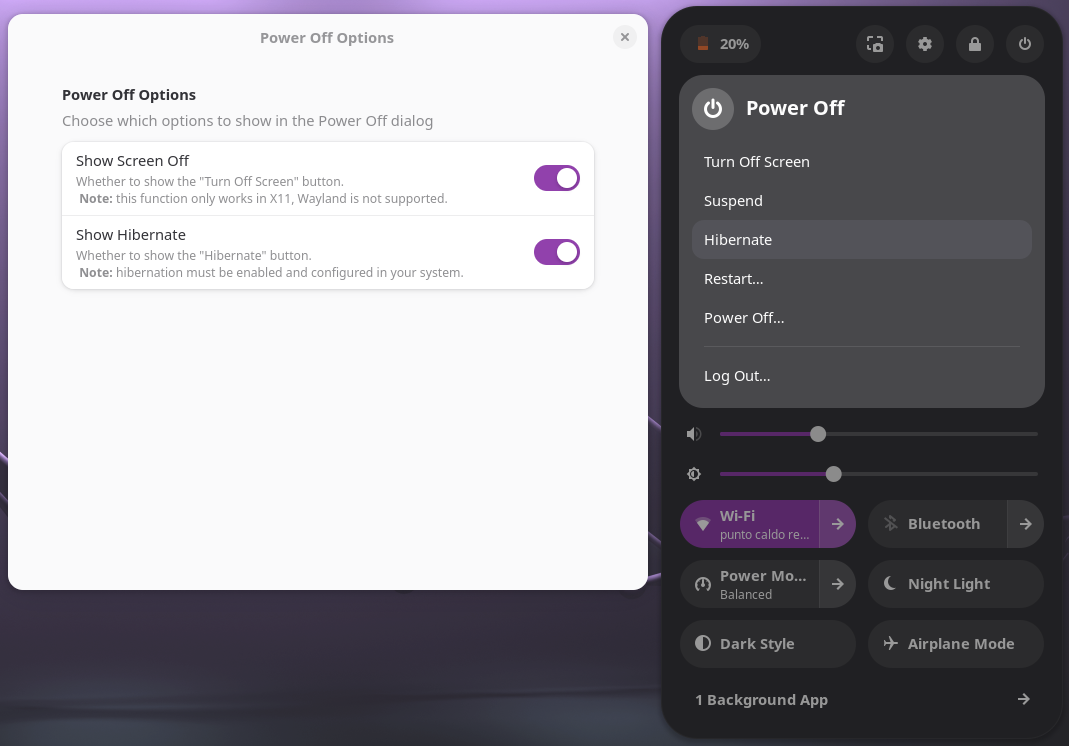
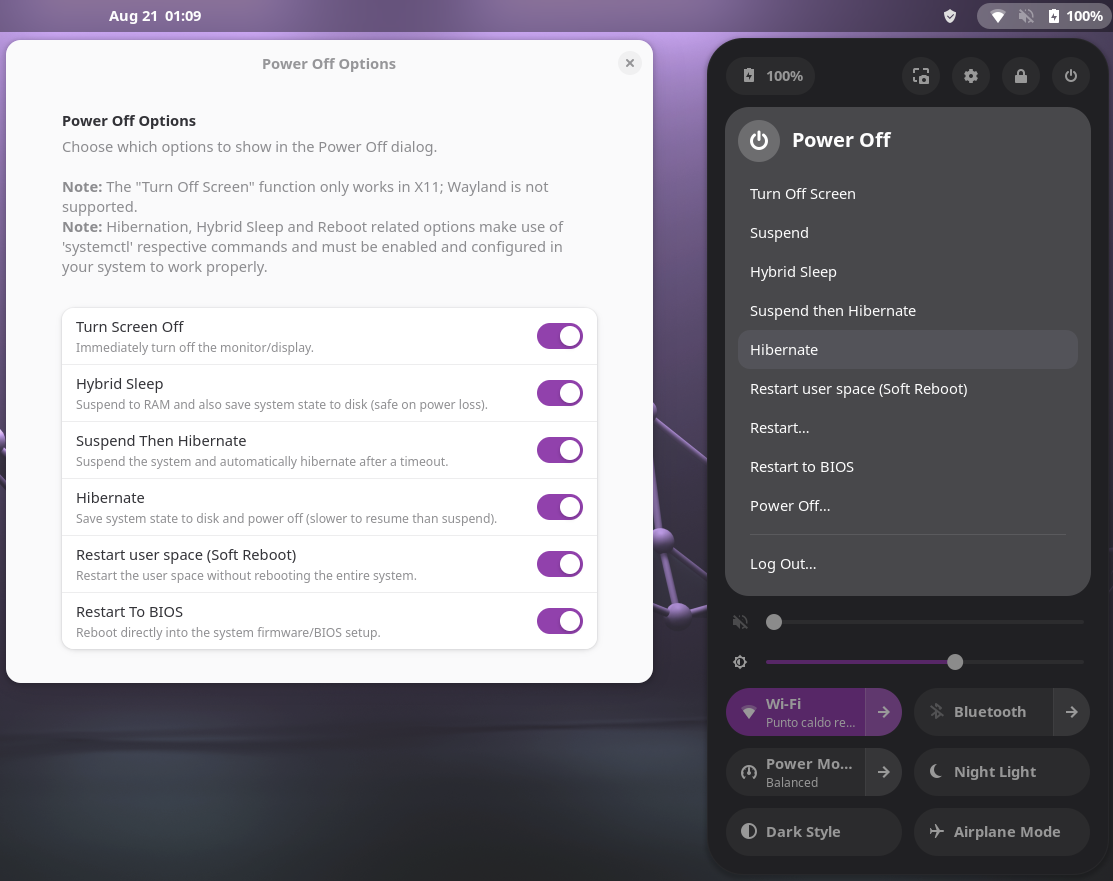
Added support for GNOME 49 and more options

diff --git a/power-off-options@axelitama.github.io/extension.js b/power-off-options@axelitama.github.io/extension.js
@@ -1,29 +1,35 @@
 import GLib from 'gi://GLib';
-import {Extension, gettext as _} from 'resource:///org/gnome/shell/extensions/extension.js';
+import {Extension} from 'resource:///org/gnome/shell/extensions/extension.js';
 import * as Main from 'resource:///org/gnome/shell/ui/main.js';
 
+import ScreenOffButton from './buttons/screenOffButton.js';
+import HybridSleepButton from './buttons/hybridSleepButton.js';
+import HibernationButton from './buttons/hibernationButton.js';
+import SuspendThenHibernateButton from './buttons/suspendThenHibernateButton.js';
+import SoftRebootButton from './buttons/softRebootButton.js';
+import RebootToBiosButton from './buttons/rebootToBiosButton.js';
 
-
-import HibernationButton from './hibernationButton.js';
-import ScreenOffButton from './screenOffButton.js';
 
 
 export default class PowerOffOptions extends Extension {
 
     _syncSettings() {
-        if (this._settings.get_boolean('show-screenoff')) {
-            this._screenOffButton.addButton(0);
-            if (this._settings.get_boolean('show-hibernate')) {
-                this._hibernationButton.addButton(2);
+        for (const [name, {instance, setting, defaultPosition, shiftIf}] of Object.entries(this._buttons)) {
+            const enabled = this._settings.get_boolean(setting);
+
+            if (enabled) {
+                // base position
+                let position = defaultPosition;
+
+                // shift position if dependencies are enabled
+                for (const dep of shiftIf) {
+                    if (this._settings.get_boolean(this._buttons[dep].setting))
+                        position += 1;
+                }
+                
+                instance.addButton(position);
             } else {
-                this._hibernationButton.removeButton();
-            }
-        } else {
-            this._screenOffButton.removeButton();
-            if (this._settings.get_boolean('show-hibernate')) {
-                this._hibernationButton.addButton(1);
-            } else {
-                this._hibernationButton.removeButton();
+                instance.removeButton();
             }
         }
     }
@@ -31,15 +37,56 @@ export default class PowerOffOptions extends Extension {
     enable() {
         this._deferredInitId = GLib.idle_add(GLib.PRIORITY_DEFAULT_IDLE, () => {
             this._systemMenu = Main.panel.statusArea.quickSettings._system;
-            if(!this._systemMenu)
+            if (!this._systemMenu)
                 return GLib.SOURCE_CONTINUE;
 
-            this._screenOffButton = new ScreenOffButton(this._systemMenu);
-            this._hibernationButton = new HibernationButton(this._systemMenu);
+            // Centralised button registry with positions + dependencies
+            this._buttons = {
+                screenoff: {
+                    instance: new ScreenOffButton(this._systemMenu),
+                    setting: 'show-screenoff',
+                    defaultPosition: 0,
+                    shiftIf: [],
+                },
+                hybridSleep: {
+                    instance: new HybridSleepButton(this._systemMenu),
+                    setting: 'show-hybrid-sleep',
+                    defaultPosition: 1,
+                    shiftIf: ['screenoff'],
+                },
+                suspendThenHibernate: {
+                    instance: new SuspendThenHibernateButton(this._systemMenu),
+                    setting: 'show-suspend-then-hibernate',
+                    defaultPosition: 1,
+                    shiftIf: ['screenoff', 'hybridSleep'],
+                },
+                hibernate: {
+                    instance: new HibernationButton(this._systemMenu),
+                    setting: 'show-hibernate',
+                    defaultPosition: 1,
+                    shiftIf: ['screenoff', 'hybridSleep', 'suspendThenHibernate'],
+                },
+                softReboot: {
+                    instance: new SoftRebootButton(this._systemMenu),
+                    setting: 'show-soft-reboot',
+                    defaultPosition: 1,
+                    shiftIf: ['screenoff', 'hybridSleep', 'suspendThenHibernate', 'hibernate'],
+                },
+                rebootToBios: {
+                    instance: new RebootToBiosButton(this._systemMenu),
+                    setting: 'show-reboot-to-bios',
+                    defaultPosition: 2,
+                    shiftIf: ['screenoff', 'hybridSleep', 'suspendThenHibernate', 'hibernate', 'softReboot'],
+                },
+            };
 
             this._settings = this.getSettings();
             this._syncSettings();
-            this._settingsConnectionId = this._settings.connect('changed', () => this._syncSettings());
+
+            this._settingsConnectionId = this._settings.connect(
+                'changed',
+                () => this._syncSettings()
+            );
 
             this._deferredInitId = null;
             return GLib.SOURCE_REMOVE;
@@ -47,23 +94,24 @@ export default class PowerOffOptions extends Extension {
     }
 
     disable() {
-        if(this._deferredInitId) {
+        if (this._deferredInitId) {
             GLib.Source.remove(this._deferredInitId);
             this._deferredInitId = null;
         }
 
-        if(this._settingsConnectionId) {
-            this._settings.disconnect(this._settingsChangedId);
+        if (this._settingsConnectionId) {
+            this._settings.disconnect(this._settingsConnectionId);
             this._settingsConnectionId = null;
         }
 
-        this._screenOffButton?.destroy();
-        this._hibernationButton?.destroy();
+        if (this._buttons) {
+            for (const {instance} of Object.values(this._buttons))
+                instance.destroy();
+            this._buttons = null;
+        }
 
         this._systemMenu = null;
         this._settings = null;
-        this._hibernationButton = null;
-        this._screenOffButton = null;
     }
 
 }

diff --git a/power-off-options@axelitama.github.io/prefs.js b/power-off-options@axelitama.github.io/prefs.js
@@ -2,42 +2,72 @@ import Adw from 'gi://Adw';
 import Gio from 'gi://Gio';
 import {ExtensionPreferences, gettext as _} from 'resource:///org/gnome/Shell/Extensions/js/extensions/prefs.js';
 
-
-
 export default class ExamplePreferences extends ExtensionPreferences {
 
     fillPreferencesWindow(window) {
-        // Create a preferences page, with a single group
+        // Preferences page
         const page = new Adw.PreferencesPage({
             title: _('General'),
             icon_name: 'dialog-information-symbolic',
         });
         window.add(page);
-    
+
+        // Group for power options
         const group = new Adw.PreferencesGroup({
             title: _('Power Off Options'),
-            description: _('Choose which options to show in the Power Off dialog'),
+            description: _(
+                'Choose which options to show in the Power Off dialog.\n\n' +
+                '<b>Note:</b> The "Turn Off Screen" function only works in X11; Wayland is not supported.\n' +
+                '<b>Note:</b> Hibernation, Hybrid Sleep and Reboot related options make use of \'systemctl\' respective commands and must be enabled and configured in your system to work properly.\n'
+            ),
         });
         page.add(group);
 
-        // Create a new preferences row for 'show-screenoff'
+        // Rows with simple descriptions
         const screenOffRow = new Adw.SwitchRow({
-            title: _('Show Screen Off'),
-            subtitle: _('Whether to show the \"Turn Off Screen" button.\n <b>Note:</b> this function only works in X11, Wayland is not supported.'),
+            title: _('Turn Screen Off'),
+            subtitle: _('Immediately turn off the monitor/display.'),
         });
         group.add(screenOffRow);
-    
-        // Create a new preferences row for 'show-hibernate'
+
+        const hybridSleepRow = new Adw.SwitchRow({
+            title: _('Hybrid Sleep'),
+            subtitle: _('Suspend to RAM and also save system state to disk (safe on power loss).'),
+        });
+        group.add(hybridSleepRow);
+
+        const suspendThenHibernateRow = new Adw.SwitchRow({
+            title: _('Suspend Then Hibernate'),
+            subtitle: _('Suspend the system and automatically hibernate after a timeout.'),
+        });
+        group.add(suspendThenHibernateRow);
+
         const hibernateRow = new Adw.SwitchRow({
-            title: _('Show Hibernate'),
-            subtitle: _('Whether to show the \"Hibernate\" button.\n <b>Note:</b> hibernation must be enabled and configured in your system.'),
+            title: _('Hibernate'),
+            subtitle: _('Save system state to disk and power off (slower to resume than suspend).'),
         });
         group.add(hibernateRow);
-    
-        // Create a settings object and bind the rows to the corresponding keys
+
+        const softRebootRow = new Adw.SwitchRow({
+            title: _('Restart user space (Soft Reboot)'),
+            subtitle: _('Restart the user space without rebooting the entire system.'),
+        });
+        group.add(softRebootRow);
+
+        const rebootToBiosRow = new Adw.SwitchRow({
+            title: _('Restart To BIOS'),
+            subtitle: _('Reboot directly into the system firmware/BIOS setup.'),
+        });
+        group.add(rebootToBiosRow);
+
+        // Bind settings
         window._settings = this.getSettings();
-        window._settings.bind('show-hibernate', hibernateRow, 'active', Gio.SettingsBindFlags.DEFAULT);
         window._settings.bind('show-screenoff', screenOffRow, 'active', Gio.SettingsBindFlags.DEFAULT);
+        window._settings.bind('show-hybrid-sleep', hybridSleepRow, 'active', Gio.SettingsBindFlags.DEFAULT);
+        window._settings.bind('show-suspend-then-hibernate', suspendThenHibernateRow, 'active', Gio.SettingsBindFlags.DEFAULT);
+        window._settings.bind('show-hibernate', hibernateRow, 'active', Gio.SettingsBindFlags.DEFAULT);
+        window._settings.bind('show-soft-reboot', softRebootRow, 'active', Gio.SettingsBindFlags.DEFAULT);
+        window._settings.bind('show-reboot-to-bios', rebootToBiosRow, 'active', Gio.SettingsBindFlags.DEFAULT);
     }
 
 }

diff --git a/power-off-options@axelitama.github.io/buttons/_powerOffDialogButton.js b/power-off-options@axelitama.github.io/buttons/_powerOffDialogButton.js
@@ -1,47 +1,41 @@
 import GLib from 'gi://GLib';
 import * as PopupMenu from 'resource:///org/gnome/shell/ui/popupMenu.js';
 
+export default class PowerOffDialogButton {
 
+    constructor(systemMenu, label, command) {
+        this._systemMenu = systemMenu;
+        this._label = label;
+        this._command = command;
 
-export default class HibernationButton {
-    
-    constructor(systemMenu) {
         this._button = null;
         this._handler = null;
-        this._systemMenu = systemMenu;
     }
 
     addButton(position) {
-        if(this._button != null || this._button != undefined)
+        if (this._button !== null)
             return;
-        this._button = new PopupMenu.PopupMenuItem('Hibernate');
-        this._handler = this._button.connect(
-            'activate',
-            () => this._execute()
-        );
 
-        this._systemMenu._systemItem.menu.addMenuItem(
-            this._button,
-            position
-        );
+        this._button = new PopupMenu.PopupMenuItem(this._label);
+        this._handler = this._button.connect('activate', () => this._execute());
+
+        this._systemMenu._systemItem.menu.addMenuItem(this._button, position);
     }
 
     _execute() {
         GLib.spawn_async(
             null,
-            ['systemctl', 'hibernate'],
+            this._command,
             null,
-            GLib.SpawnFlags.SEARCH_PATH,
+            GLib.SpawnFlags.SEARCH_PATH
         );
-
     }
 
     removeButton() {
-        if(this._button) {
+        if (this._button) {
             this._button.disconnect(this._handler);
             this._button.destroy();
         }
-
         this._button = null;
         this._handler = null;
     }
@@ -50,5 +44,5 @@ export default class HibernationButton {
         this.removeButton();
         this._systemMenu = null;
     }
-
+    
 }

diff --git a/power-off-options@axelitama.github.io/buttons/suspendThenHibernateButton.js b/power-off-options@axelitama.github.io/buttons/suspendThenHibernateButton.js
@@ -1,0 +1,9 @@
+import PowerOffDialogButton from './_powerOffDialogButton.js';
+
+export default class SuspendThenHibernateButton extends PowerOffDialogButton {
+
+    constructor(systemMenu) {
+        super(systemMenu, 'Suspend then Hibernate', ['systemctl', 'suspend-then-hibernate']);
+    }
+
+}

diff --git a/power-off-options@axelitama.github.io/buttons/rebootToBiosButton.js b/power-off-options@axelitama.github.io/buttons/rebootToBiosButton.js
@@ -1,0 +1,9 @@
+import PowerOffDialogButton from './_powerOffDialogButton.js';
+
+export default class RebootToBiosButton extends PowerOffDialogButton {
+
+    constructor(systemMenu) {
+        super(systemMenu, 'Restart to BIOS', ['systemctl', 'reboot', '--firmware-setup']);
+    }
+
+}

diff --git a/power-off-options@axelitama.github.io/buttons/softRebootButton.js b/power-off-options@axelitama.github.io/buttons/softRebootButton.js
@@ -1,0 +1,9 @@
+import PowerOffDialogButton from './_powerOffDialogButton.js';
+
+export default class SoftRebootButton extends PowerOffDialogButton {
+
+    constructor(systemMenu) {
+        super(systemMenu, 'Restart user space (Soft Reboot)', ['systemctl', 'soft-reboot']);
+    }
+
+}

diff --git a/power-off-options@axelitama.github.io/buttons/screenOffButton.js b/power-off-options@axelitama.github.io/buttons/screenOffButton.js
@@ -1,0 +1,9 @@
+import PowerOffDialogButton from './_powerOffDialogButton.js';
+
+export default class ScreenOffButton extends PowerOffDialogButton {
+
+    constructor(systemMenu) {
+        super(systemMenu, 'Turn Off Screen', ['xset', 'dpms', 'force', 'off']);
+    }
+    
+}

diff --git a/power-off-options@axelitama.github.io/buttons/hybridSleepButton.js b/power-off-options@axelitama.github.io/buttons/hybridSleepButton.js
@@ -1,0 +1,9 @@
+import PowerOffDialogButton from './_powerOffDialogButton.js';
+
+export default class HybridSleepButton extends PowerOffDialogButton {
+
+    constructor(systemMenu) {
+        super(systemMenu, 'Hybrid Sleep', ['systemctl', 'hybrid-sleep']);
+    }
+    
+}

diff --git a/power-off-options@axelitama.github.io/buttons/hibernationButton.js b/power-off-options@axelitama.github.io/buttons/hibernationButton.js
@@ -1,0 +1,9 @@
+import PowerOffDialogButton from './_powerOffDialogButton.js';
+
+export default class HibernationButton extends PowerOffDialogButton {
+
+    constructor(systemMenu) {
+        super(systemMenu, 'Hibernate', ['systemctl', 'hibernate']);
+    }
+    
+}

diff --git a/README.md b/README.md
@@ -14,12 +14,8 @@ Power Off Options is a GNOME Shell extension that adds two additional buttons to
 ## Requirements
 
 - GNOME Shell;
-
-For powering off the screen:
-- X11 windowing system.
-
-For Hibernation:
-- hibernation enabled and configured in the system.
+- the screen off function only works in X11, Wayland is not supported;
+- Hibernation, Hybrid Sleep and Reboot related options make use of `systemctl` respective commands and must be enabled and configured in your system to work properly.
 
 ## Installation
 
